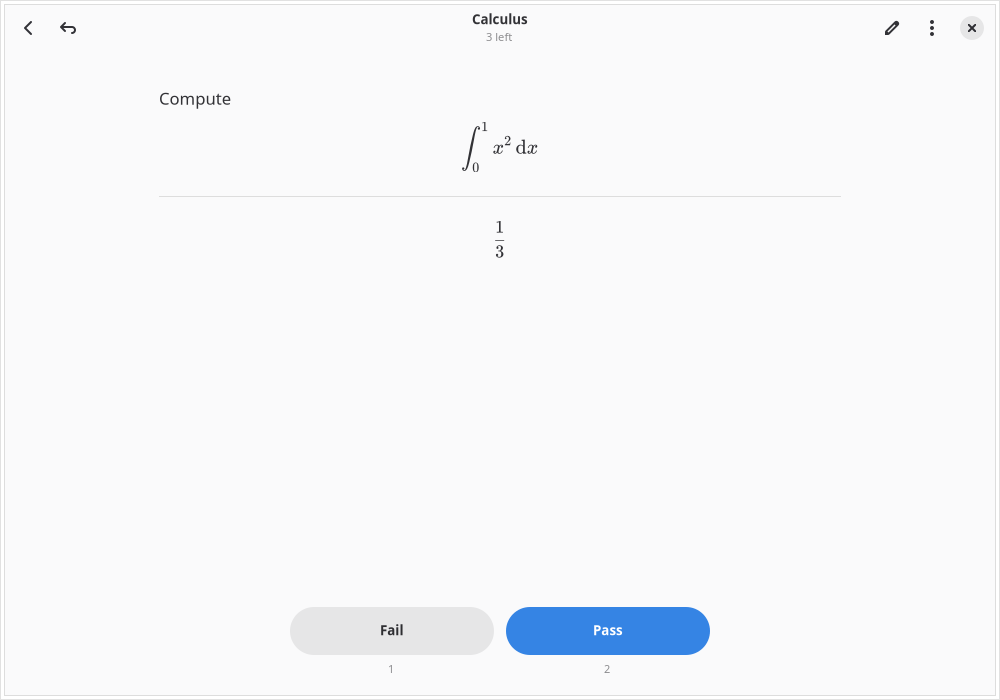
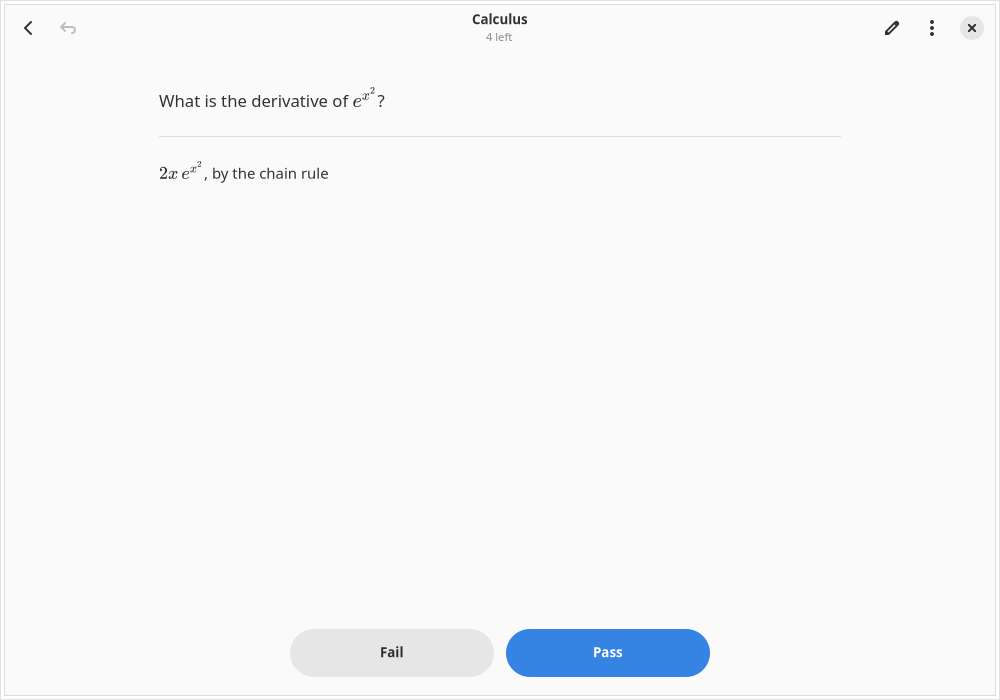
docs: retake the store screenshots and finish the 0.4.0 listing (#140)
* docs: new store screenshots, tag-pinned URLs and the 0.4.0 notes ready

* docs: address review of the store listing

---------

diff --git a/crates/app/src/desktop_files.rs b/crates/app/src/desktop_files.rs
@@ -39,9 +39,9 @@ fn read(path: &Path) -> String {
 const BINARY: &str = env!("CARGO_BIN_NAME");
 
 /// Where the store finds the committed screenshots: the raw files of the
-/// repository's `main` branch.
+/// repository at the `v0.4.0` tag (ADR 0083; the tag is made at release).
 const SCREENSHOT_URL: &str =
-    "https://raw.githubusercontent.com/rappelapp/rappel/main/data/screenshots/";
+    "https://raw.githubusercontent.com/rappelapp/rappel/v0.4.0/data/screenshots/";
 
 /// Flathub's largest window for a screenshot, in logical pixels (its
 /// quality guidelines: "1000x700 pixels or smaller").
@@ -372,6 +372,14 @@ fn the_screenshots_are_committed_and_within_flathub_s_size() {
         assert!(
             !caption.ends_with('.') && !caption.starts_with(|c: char| c.is_ascii_digit()),
             "Flathub: a caption has no full stop and does not start with a number: {caption:?}"
+        );
+    }
+    // A release build pins the screenshots to its own tag (ADR 0083).
+    let built = env!("CARGO_PKG_VERSION");
+    if !built.contains('-') {
+        assert!(
+            SCREENSHOT_URL.contains(&format!("/v{built}/")),
+            "the crate is released as {built}: SCREENSHOT_URL must name the tag v{built}"
         );
     }
     let folder = repo().join("data/screenshots");

diff --git a/README.md b/README.md
@@ -80,13 +80,14 @@ Rappel uses gettext, laid out as GNOME projects are (ADR 0059): `po/LINGUAS` lis
 Drafts of the files that make Rappel look like a GNOME app once installed are in [`data/`](data/) (ADR 0060): the desktop entry (`io.github.rappelapp.Rappel.desktop.in`), the AppStream metainfo for software stores (`io.github.rappelapp.Rappel.metainfo.xml.in`: description, releases, content rating, screenshots), the app icon and its symbolic icon in `data/icons/` (ADR 0074), and the store screenshots in `data/screenshots/`. Nothing installs them yet: packaging (a Meson build that merges their translations and installs them, a Snap, and a self-hosted Flatpak with a manifest written by hand) comes in phases 3b (the Snap, ending in 0.4.0) and 3c (the Flatpak, ending in 1.0).
 
 - **Validate them**: the gate does (`cargo test -p rappel desktop_files`), with `desktop-file-validate` and `appstreamcli validate --no-net --pedantic`, in English and with the French translation merged in. Their texts are in `po/rappel.pot` like the app's.
-- **A new release** needs its `<release>` in the metainfo (newest first, a pre-release written `0.3.0~beta.1`); the gate fails while `CHANGELOG.md` has a version the metainfo lacks.
+- **A new release** needs its `<release>` in the metainfo (newest first, a pre-release written `0.3.0~beta.1`); the gate fails while `CHANGELOG.md` has a version the metainfo lacks. The screenshot URLs name the release's tag (`…/rappel/v0.4.0/…`, ADR 0083): bump it in the metainfo and in `SCREENSHOT_URL` of `desktop_files.rs` (a test checks it once the crate has a release version). The notes for 0.4.0 wait in a comment in the metainfo, to become its `<release>` with the version bump.
 - **Retake the store screenshots** after a visible change (light style, GNOME's window buttons and accent, 1000 × 700 and a phone at 360 × 640):
   ```sh
-  cargo run -p rappel-core --example fill_scratch_db -- $PWD/target/tmp/demo 0 --demo
+  cargo run -p rappel-core --example fill_scratch_db -- $PWD/target/tmp/demo 0 --demo --probability
   scripts/screenshot.py --out store --size 1000x700 --data target/tmp/demo \
-      --env ADW_DEBUG_ACCENT_COLOR=blue --decoration-layout :close --steps "wait:6 shot:decks"
+      --env ADW_DEBUG_ACCENT_COLOR=blue --decoration-layout :close --steps "wait:5 shot:decks"
   ```
+  The other shots use the same flags with `--size`, `--deck` (an id from the `decks` table) and these steps (ADR 0083 has the details): `review`: Calculus, `--steps "wait:5 key:s wait:2 key:space wait:1 shot:review"`; `deck`: the "SIC 3101 – Probabilités" deck, `wait:5 shot:deck`; `all-cards`: `wait:5 key:ctrl+f wait:2 click:850,28 wait:1 shot:allcards` (the click moves the pointer off the list); `statistics`: `wait:5 click:932,28 wait:1 click:838,79 wait:2 shot:statistics`; `editor`: Calculus, `wait:5 key:ctrl+n wait:2 type:What%20is%20the%20derivative%20of%20$\sin(x^2)$? click:310,450 type:$2x\cos(x^2)$,%20by%20the%20**chain%20rule** click:310,630 type:derivatives, wait:1 shot:editor`; `phone`: `--size 360x640`, the Flags deck, `wait:5 key:s wait:2 key:space wait:1 shot:phone`.
   then copy the shots from `docs/briefs/screenshots/` to `data/screenshots/` (`convert … -strip` keeps them small). The harness has no compositor, so the windows have no shadow; for a Flathub submission, retake them on GNOME with Alt+Print.
 
 ## Recovering your data

diff --git a/docs/adr/0083-store-listing-for-0-4-0.md b/docs/adr/0083-store-listing-for-0-4-0.md
@@ -1,0 +1,23 @@
+# 83. The store listing for 0.4.0: new screenshots, tag-pinned URLs, release notes held back
+
+- Status: Accepted
+- Date: 2026-11-10
+- Refers to: ADR 0060 (metainfo and store screenshots), ADR 0074 (icon), ADR 0075 (app id), Phase 3b brief slice 8, ADR 0082 (snap stopped)
+
+## Decision
+
+**Screenshots.** The store set is now seven, retaken with `scripts/screenshot.py` under Xvfb in English, light style, GNOME's window buttons and blue accent, from `fill_scratch_db -- <dir> 0 --demo --probability` (scratch data only): `review.png` (default, a calculus card with its answer), `decks.png`, `deck.png` (a deck's page: the tags said once, two group headers, "Only the shared tags" and "Also Analyse MAT3101", and rows with drawn maths on their backs), `all-cards.png`, `statistics.png` (the new month-at-a-time card), `editor.png` (Markdown with a live preview) and `phone.png` (a flag card at 360 × 640). No key hints are visible. Together about 290 KB; each is under the 300 KB limit of the test. The harness has no compositor, so there is still no window shadow (ADR 0060's "not met" stands for Flathub).
+
+**URLs pinned to the tag.** The metainfo and the test name `…/rappel/v0.4.0/data/screenshots/…` instead of `main`, as ADR 0060 suggested for release time, so a store listing of 0.4.0 keeps showing 0.4.0's screens. The tag exists only once the maintainer tags the release; until then the URLs 404 and `appstreamcli --no-net` (the test) does not fetch them.
+
+**Release notes held back.** The gate requires the metainfo's releases to be exactly the versions of `CHANGELOG.md`, and `Cargo.toml` still says 0.4.0-beta.1 until the version slice. A `0.4.0` entry added now would fail the gate. The text is kept in a comment in the metainfo; the slice that bumps the version turns it into the `<release version="0.4.0">` entry in the same change as the changelog's `[0.4.0]`.
+
+**The snap.** Packaging is stopped (ADR 0082), so there is no `snapcraft.yaml`. The metainfo's summary and description are final; the snap will copy them when packaging resumes.
+
+## Reproducing the set
+
+Data: `fill_scratch_db -- <dir> 0 --demo --probability`. For `deck.png` and `all-cards.png` the groups are balanced in a copy, so that both group headers are above the fold: the cards with `seq` 58, 59, 62 and 66 to 69 of the "SIC 3101 – Probabilités" deck also get the tags "Analyse" and "MAT3101" (two `INSERT OR IGNORE INTO card_tags` per card, with Python's `sqlite3` on the copy; the scratch data is throwaway). The step strings of each shot are in the README's "Retake the store screenshots". `all-cards.png` moves the pointer to the header bar before the shot, so no row is highlighted.
+
+## Release notes
+
+The held-back 0.4.0 notes open with one sentence for people coming from 0.1.0 (the betas added formulas, media, tags, search, statistics, export and import, Undo, phones and French), then list this release's changes and the SQLite security fix. A test now checks that, once the crate has a release version, `SCREENSHOT_URL` names its tag.

diff --git a/ARCHITECTURE.md b/ARCHITECTURE.md
@@ -232,7 +232,7 @@ Files of two kinds live in `data/`: composite templates (a `template` block, loa
 
 ## Desktop integration drafts
 
-The top-level `data/` folder (not `crates/app/data/`, which is compiled into the binary) holds what packaging will install (ADR 0060): `io.github.rappelapp.Rappel.desktop.in`, `io.github.rappelapp.Rappel.metainfo.xml.in` (description, releases, content rating, screenshots by URL), the app icon and its symbolic icon in `icons/hicolor/{scalable,symbolic}/apps/` (ADR 0074), and the committed store screenshots in `screenshots/`. Nothing builds or installs them yet (packaging is phase 3b); their translatable texts are in `po/POTFILES.in` and `po/rappel.pot`. `crates/app/src/desktop_files.rs` (tests only) runs `desktop-file-validate` and `appstreamcli validate --no-net --pedantic` on them in English and with French merged in, and checks that the ids, binary, icon name, gettext domain, licence and links are the code's, that the releases are `CHANGELOG.md`'s versions, that the screenshots are committed PNGs within Flathub's size, and that the icons are plain SVG (their only `url(…)` references are to their own gradients). `fill_scratch_db --demo` makes the data the screenshots show.
+The top-level `data/` folder (not `crates/app/data/`, which is compiled into the binary) holds what packaging will install (ADR 0060): `io.github.rappelapp.Rappel.desktop.in`, `io.github.rappelapp.Rappel.metainfo.xml.in` (description, releases, content rating, screenshots by URL), the app icon and its symbolic icon in `icons/hicolor/{scalable,symbolic}/apps/` (ADR 0074), and the committed store screenshots in `screenshots/`. Nothing builds or installs them yet (packaging is phase 3b); their translatable texts are in `po/POTFILES.in` and `po/rappel.pot`. `crates/app/src/desktop_files.rs` (tests only) runs `desktop-file-validate` and `appstreamcli validate --no-net --pedantic` on them in English and with French merged in, and checks that the ids, binary, icon name, gettext domain, licence and links are the code's, that the releases are `CHANGELOG.md`'s versions, that the screenshots are committed PNGs within Flathub's size, and that the icons are plain SVG (their only `url(…)` references are to their own gradients). `fill_scratch_db --demo --probability` makes the data the screenshots show (README, "Retake the store screenshots").
 
 ## Quality gate
 

diff --git a/CHANGELOG.md b/CHANGELOG.md
@@ -17,6 +17,7 @@ and the project aims to follow [Semantic Versioning](https://semver.org/).
 - **The app ID is now `io.github.rappelapp.Rappel`** (was `io.github.rsmirke.Rappel`), and every link points to `https://github.com/rappelapp/rappel`. The developer is shown as "The Rappel Project" in About and the metainfo. The data directory does **not** change: it stays `~/.local/share/rappel/` (ADR 0075, #130).
 - **Phase 3b is planned**: its brief and two mockups are in `docs/briefs/`, SPEC.md splits the old phase 3b into 3b (polish and the first Snap, ends in 0.4.0) and 3c (Flatpak bundle, translation workflow, hardening, ends in 1.0), and the maintainer's answers to the phase 3a questions are recorded.
 - **Rappel has its real icon**: a white index card and a red one on a ring, drawn by the maintainer in GNOME's style, and a matching symbolic icon. They replace the placeholders in `data/icons/` (ADR 0074).
+- **The store listing is ready for 0.4.0**: two new store screenshots (the deck page grouped by tag, and All Cards) and five retaken (review, the deck list, the Statistics card, the editor and a phone-sized one), all from scratch data, their URLs in the metainfo pinned to the `v0.4.0` tag, and the notes for 0.4.0 kept ready in the metainfo for the release change (ADR 0083).
 
 ### Fixed
 - **No more stray light dots around a card's text.** Moving to the next card, revealing the answer or editing in the preview could leave a pixel of the previous text (often of an accent, as above "Tribu engendrée"), or cut the top pixel off a new one. GTK repaints only what changed, measured on the letters without hinting, but draws them hinted, which can reach one pixel further; each card side now has GTK repaint a margin around everything it draws whenever it changes (ADR 0076, #120).

diff --git a/docs/adr/0060-desktop-integration-drafts.md b/docs/adr/0060-desktop-integration-drafts.md
@@ -43,6 +43,8 @@ The `.in` files are the sources packaging will translate (Meson's `i18n.merge_fi
 - The releases are exactly `CHANGELOG.md`'s versions, newest first, with their dates (a version added to the changelog fails the gate until the metainfo has it).
 - Every screenshot listed is under the raw URL, committed, a PNG of at most 1000 × 700 and at least 360 wide, under 300 KB; every committed one is listed; one default, first; every one captioned, without a final full stop.
 
+*Amendment (ADR 0083): the store set is now seven screenshots (`deck.png` and `all-cards.png` added), retaken for 0.4.0, and their URLs are pinned to the `v0.4.0` tag instead of `main`.*
+
 ## Consequences
 
 - A release adds its `<release>` to the metainfo, in the same change as `CHANGELOG.md` (slice 11 does it for 0.3.0-beta.1).
